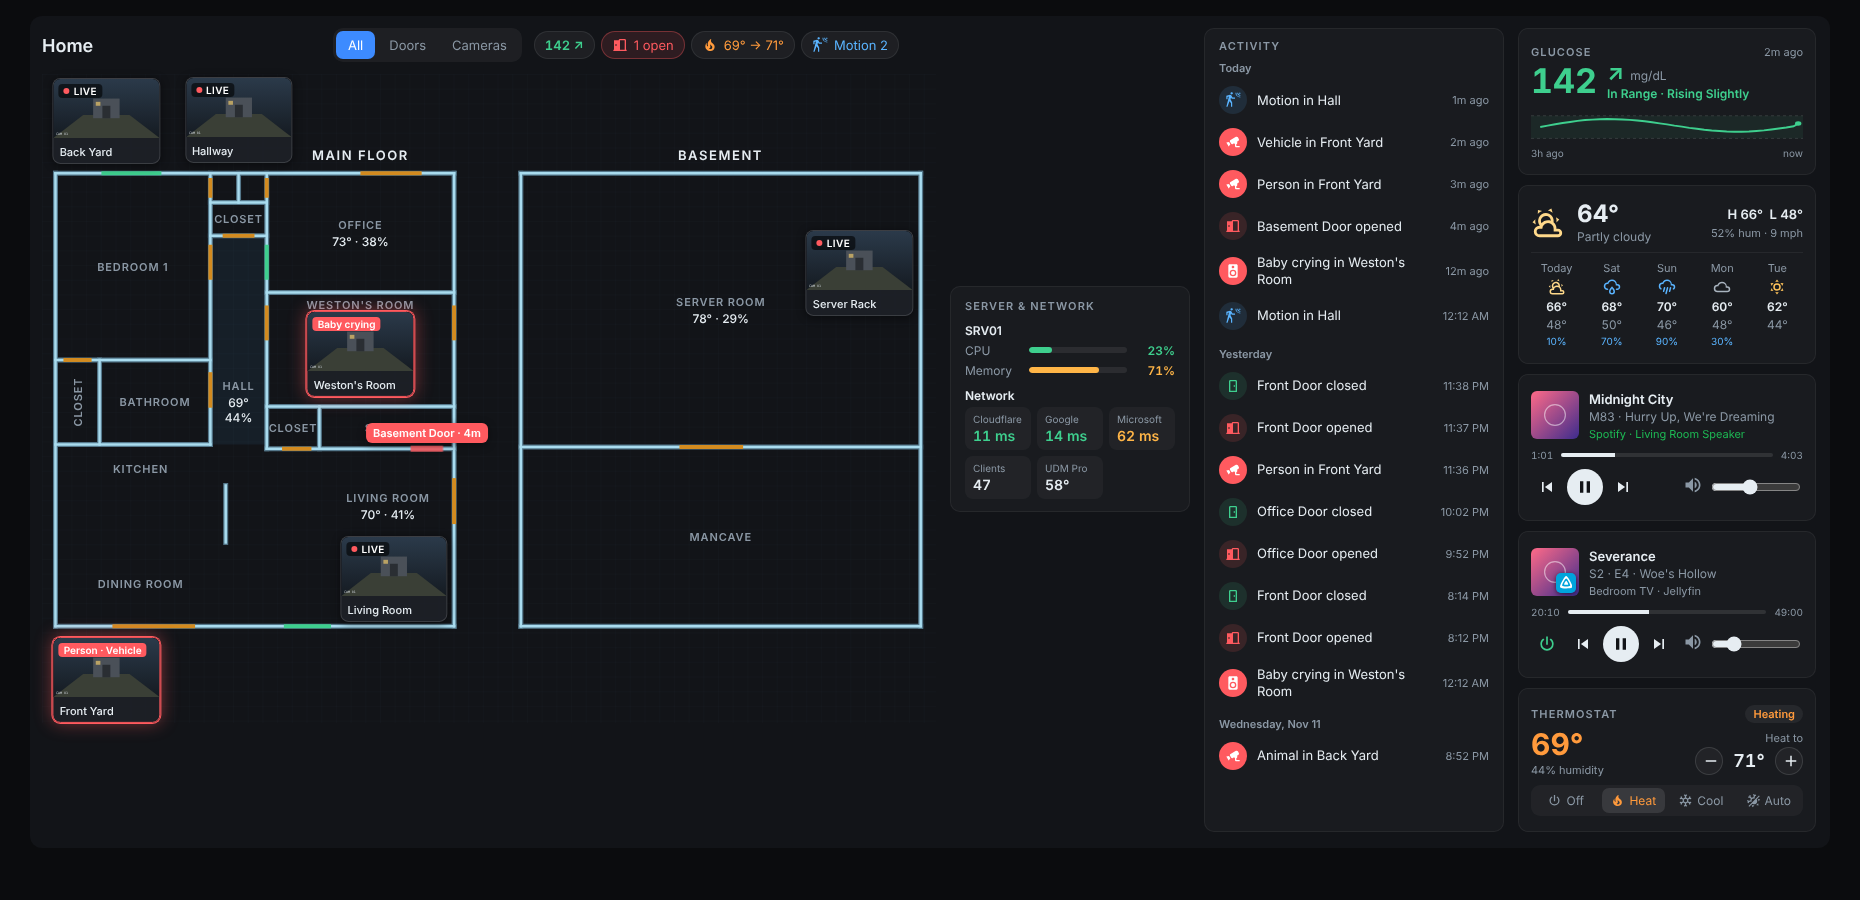
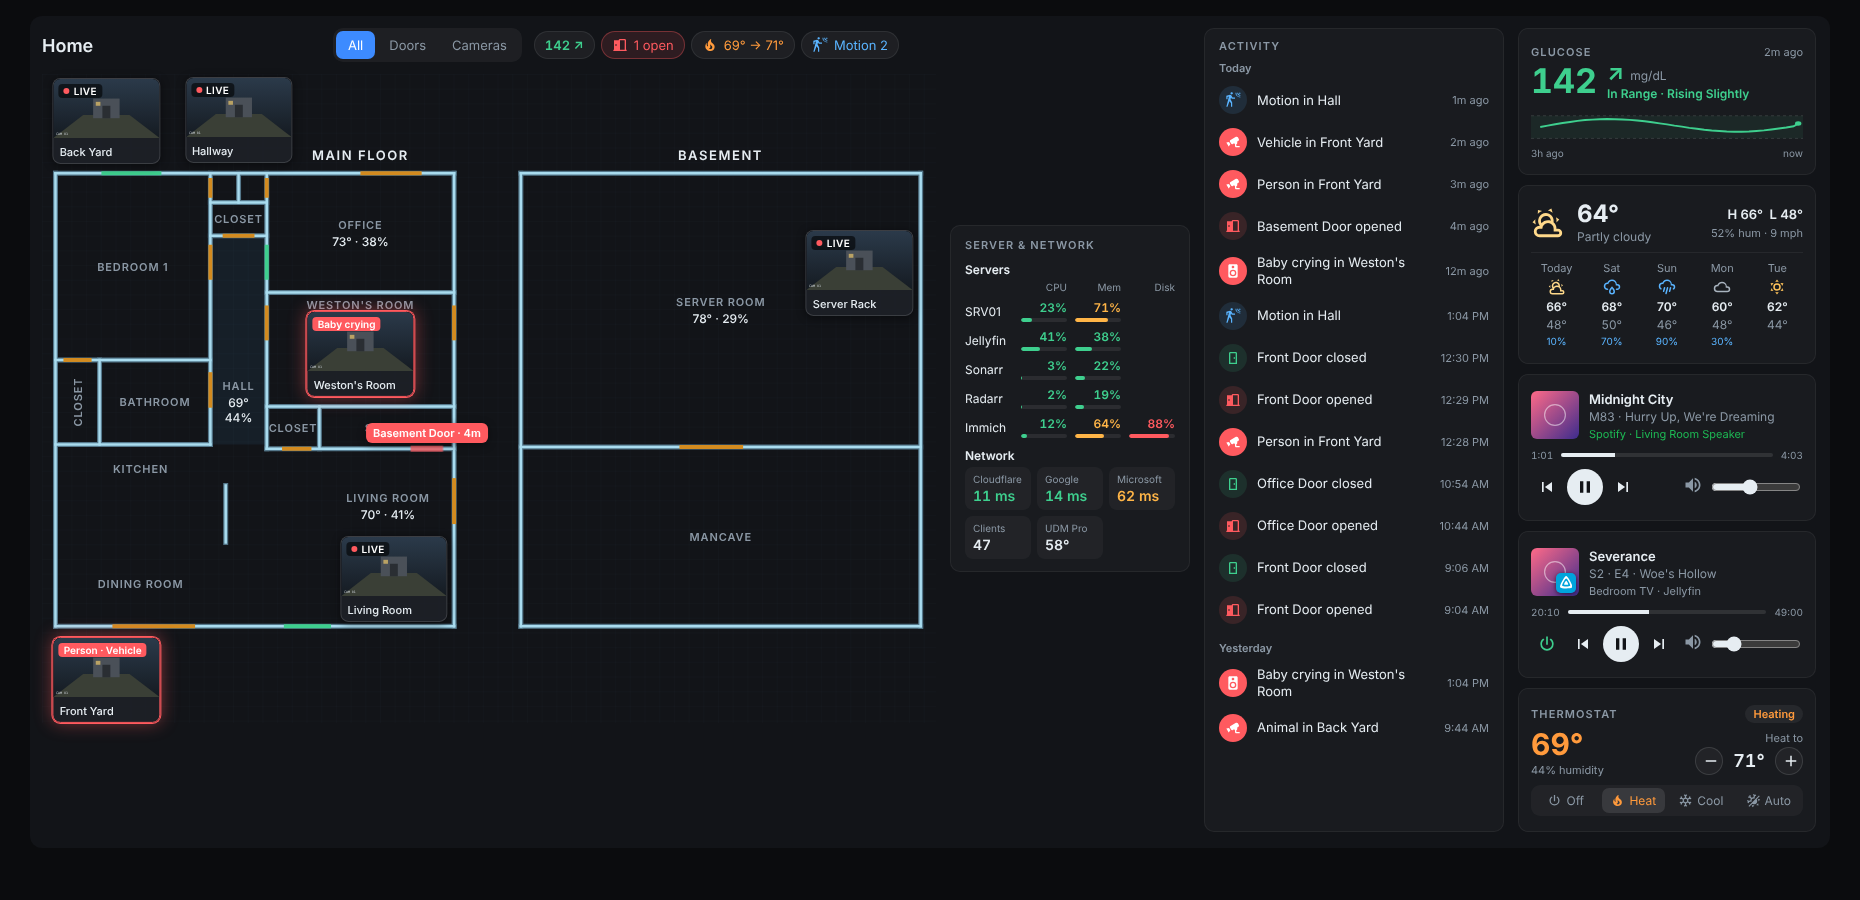
Add Jellyfin, Sonarr, Radarr and Immich to the server box as a compact table

diff --git a/home-view-card.js b/home-view-card.js
@@ -1,4 +1,4 @@
-const VERSION = "0.11.0";
+const VERSION = "0.11.1";
 
 const ICON = {
   door: "M8,3C6.89,3 6,3.89 6,5V21H18V5C18,3.89 17.11,3 16,3H8M8,5H16V19H8V5M13,11V13H15V11H13Z",
@@ -50,7 +50,13 @@ const DEFAULT_CONFIG = {
   weather: "weather.forecast_home",
   media: ["media_player.spotify",{entity:"media_player.bedroom_tv_2",name:"Bedroom TV",sources:[{entity:"media_player.bedroom_tv_3",app:"Jellyfin"}]}],
   climate: {entity:"climate.living_room",name:"Thermostat",humidity:"sensor.living_room_humidity"},
-  server: {name:"SRV01",cpu:"sensor.srv01_cpu_usage",memory:"sensor.srv01_memory_usage"},
+  server: [
+    {name:"SRV01",cpu:"sensor.srv01_cpu_usage",memory:"sensor.srv01_memory_usage"},
+    {name:"Jellyfin",cpu:"sensor.jellyfin_cpu_usage",memory:"sensor.jellyfin_memory_usage"},
+    {name:"Sonarr",cpu:"sensor.tv_herrell_us_cpu_usage",memory:"sensor.tv_herrell_us_memory_usage"},
+    {name:"Radarr",cpu:"sensor.movies_herrell_us_cpu_usage",memory:"sensor.movies_herrell_us_memory_usage"},
+    {name:"Immich",cpu:"sensor.photos_herrell_us_cpu_usage",memory:"sensor.photos_herrell_us_memory_usage",disk:"sensor.photos_herrell_us_disk_usage"},
+  ],
   network: {latency:[{entity:"sensor.udm_pro_cloudflare_wan_latency",name:"Cloudflare"},{entity:"sensor.udm_pro_google_wan_latency",name:"Google"},{entity:"sensor.udm_pro_microsoft_wan_latency",name:"Microsoft"}],clients:"sensor.udm_pro_clients",temperature:"sensor.udm_pro_temperature",temperature_name:"UDM Pro"},
   rooms: [
     {name:"Bedroom 1",rect:[77,47,330,352]},
@@ -363,8 +369,19 @@ ha-card {
 .sys-h { color: var(--hv-muted); font-size: 11px; font-weight: 600; letter-spacing: 0.1em; text-transform: uppercase; }
 .sys-sub { margin: 10px 0 4px; color: var(--hv-text); font-size: 12px; font-weight: 600; }
 .sys-row { --lv: var(--hv-closed); display: grid; grid-template-columns: 56px 1fr 40px; align-items: center; gap: 8px; margin: 5px 0; font-size: 12px; cursor: pointer; }
-.sys-row.warn, .sys-tile.warn { --lv: #ffb547; }
-.sys-row.bad, .sys-tile.bad { --lv: var(--hv-open); }
+.sys-row.warn, .sys-tile.warn, .sys-cell.warn { --lv: #ffb547; }
+.sys-row.bad, .sys-tile.bad, .sys-cell.bad { --lv: var(--hv-open); }
+.sys-tbl { display: grid; gap: 7px 8px; align-items: center; }
+.sys-th { color: var(--hv-muted); font-size: 10px; text-align: right; }
+.sys-name { overflow: hidden; white-space: nowrap; text-overflow: ellipsis; font-size: 12px; }
+.sys-cell {
+  --lv: var(--hv-closed);
+  display: flex; flex-direction: column; gap: 3px; padding: 0; border: 0; background: none;
+  color: inherit; font: inherit; cursor: pointer;
+}
+.sys-cell .sys-val { font-size: 12px; }
+.sys-cell .sys-bar { height: 4px; }
+.sys-cell.dead { --lv: var(--hv-muted); opacity: 0.6; }
 .sys-row.dead { --lv: var(--hv-muted); opacity: 0.6; }
 .sys-k { color: var(--hv-muted); }
 .sys-bar { height: 6px; border-radius: 3px; background: rgba(255,255,255,0.08); overflow: hidden; }
@@ -1197,17 +1214,27 @@ class HomeViewCard extends HTMLElement {
     const el = h("section", { class: "sys" }, h("div", { class: "sys-h" }, cfg.system_title || "Server & Network"));
     const rows = [];
     const tiles = [];
-    for (const srv of [].concat(cfg.server || [])) {
-      el.append(h("div", { class: "sys-sub" }, srv.name || "Server"));
-      for (const [key, label] of [["cpu", "CPU"], ["memory", "Memory"], ["disk", "Disk"], ["temperature", "Temp"]]) {
-        if (!srv[key]) continue;
-        const fill = h("span");
-        const val = h("span", { class: "sys-val" });
-        const row = h("div", { class: "sys-row" }, h("span", { class: "sys-k" }, label), h("div", { class: "sys-bar" }, fill), val);
-        row.addEventListener("click", () => this._moreInfo(srv[key]));
-        el.append(row);
-        rows.push({ entity: srv[key], key, row, fill, val });
+    const servers = [].concat(cfg.server || []);
+    if (servers.length) {
+      const cols = [["cpu", "CPU"], ["memory", "Mem"], ["disk", "Disk"], ["temperature", "Temp"]].filter(([k]) => servers.some((s) => s[k]));
+      const table = h("div", { class: "sys-tbl", style: `grid-template-columns: minmax(0, 1fr) repeat(${cols.length}, 46px)` });
+      table.append(h("span", { class: "sys-th" }), ...cols.map(([, l]) => h("span", { class: "sys-th" }, l)));
+      for (const srv of servers) {
+        table.append(h("span", { class: "sys-name", title: srv.name || "" }, srv.name || "Server"));
+        for (const [key] of cols) {
+          if (!srv[key]) {
+            table.append(h("span"));
+            continue;
+          }
+          const fill = h("span");
+          const val = h("span", { class: "sys-val" });
+          const cell = h("button", { class: "sys-cell" }, val, h("span", { class: "sys-bar" }, fill));
+          cell.addEventListener("click", () => this._moreInfo(srv[key]));
+          table.append(cell);
+          rows.push({ entity: srv[key], key, row: cell, fill, val });
+        }
       }
+      el.append(h("div", { class: "sys-sub" }, cfg.servers_title || "Servers"), table);
     }
     const net = cfg.network;
     if (net) {
@@ -1245,14 +1272,14 @@ class HomeViewCard extends HTMLElement {
       if (Number.isNaN(v)) {
         r.val.textContent = st ? "--" : "?";
         r.fill.style.width = "0%";
-        r.row.className = "sys-row dead";
+        r.row.className = "sys-cell dead";
         r.row.title = st ? `${r.entity}: ${st.state}` : `${r.entity} not found`;
         continue;
       }
       const isTemp = r.key === "temperature";
       const pct = isTemp ? Math.min(100, (v / 90) * 100) : Math.min(100, v);
       const level = isTemp ? (v >= 80 ? "bad" : v >= 70 ? "warn" : "ok") : v >= 85 ? "bad" : v >= 60 ? "warn" : "ok";
-      r.row.className = `sys-row ${level}`;
+      r.row.className = `sys-cell ${level}`;
       r.fill.style.width = `${pct}%`;
       r.val.textContent = isTemp ? `${Math.round(v)}°` : `${Math.round(v)}%`;
       r.row.title = `${st.attributes.friendly_name || r.entity}: ${st.state}${st.attributes.unit_of_measurement || ""}`;

diff --git a/demo/index.html b/demo/index.html
@@ -66,6 +66,15 @@ const states = {
   "media_player.bedroom_tv_2": st("playing", { friendly_name: "Bedroom TV", source: "com.plexapp.android", app_name: "com.plexapp.android", supported_features: 152463, volume_level: 0.2 }),
   "sensor.living_room_temperature": st("69.4", { device_class: "temperature", unit_of_measurement: "°F" }),
   "sensor.living_room_humidity": st("44", { device_class: "humidity", unit_of_measurement: "%" }),
+  "sensor.jellyfin_cpu_usage": st("41", { unit_of_measurement: "%" }),
+  "sensor.jellyfin_memory_usage": st("38", { unit_of_measurement: "%" }),
+  "sensor.tv_herrell_us_cpu_usage": st("3", { unit_of_measurement: "%" }),
+  "sensor.tv_herrell_us_memory_usage": st("22", { unit_of_measurement: "%" }),
+  "sensor.movies_herrell_us_cpu_usage": st("2", { unit_of_measurement: "%" }),
+  "sensor.movies_herrell_us_memory_usage": st("19", { unit_of_measurement: "%" }),
+  "sensor.photos_herrell_us_cpu_usage": st("12", { unit_of_measurement: "%" }),
+  "sensor.photos_herrell_us_memory_usage": st("64", { unit_of_measurement: "%" }),
+  "sensor.photos_herrell_us_disk_usage": st("88", { unit_of_measurement: "%" }),
   "sensor.srv01_cpu_usage": st("23.4", { unit_of_measurement: "%" }),
   "sensor.srv01_memory_usage": st("71.2", { unit_of_measurement: "%" }),
   "sensor.udm_pro_cloudflare_wan_latency": st("11", { unit_of_measurement: "ms" }),
